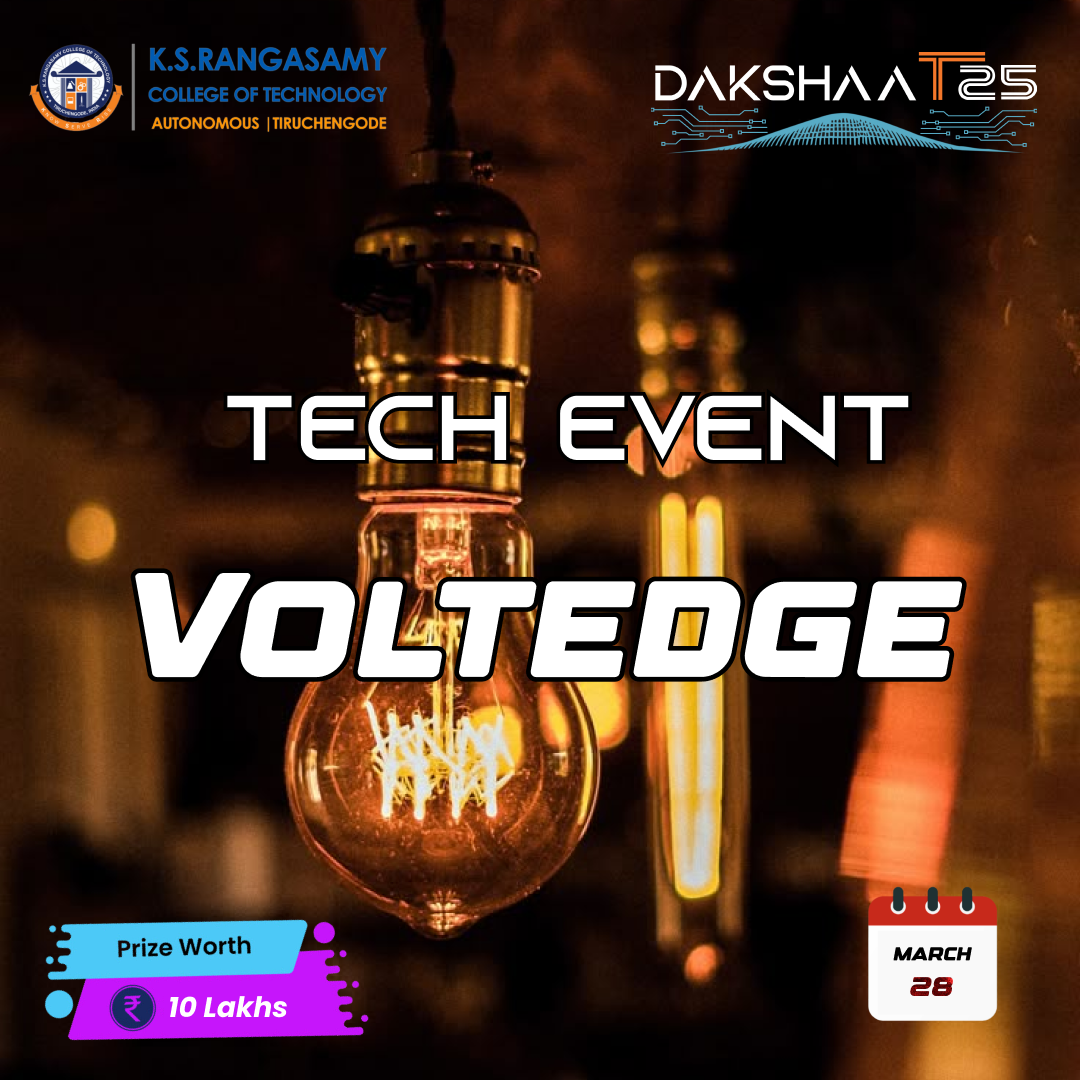
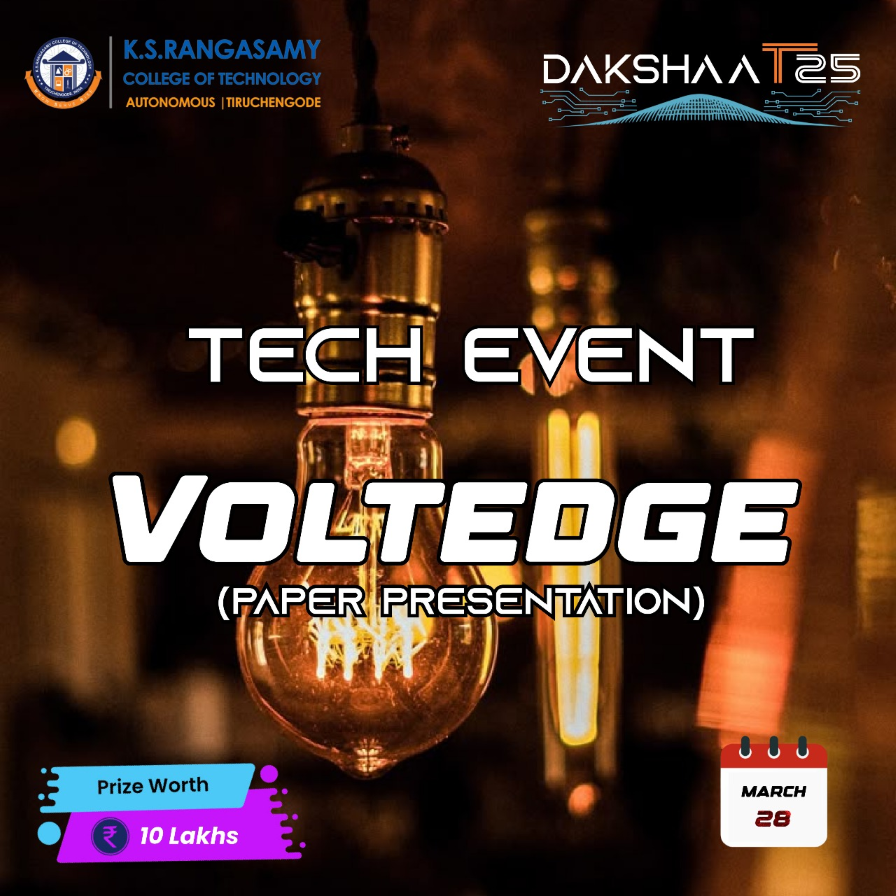
changes

diff --git a/Frontend/src/Pages/Events/EventDetails/EventDetails.jsx b/Frontend/src/Pages/Events/EventDetails/EventDetails.jsx
@@ -111,11 +111,10 @@ const EventDetails = () => {
       rules: [
         "The jury's decision is final.",
         "Any form of malpractice will lead to disqualification.",
-        "Team: 1 or 2 Members",
       ],
       schedule: [
         {
-          round: "Round 1",
+          round: "Round",
           date: "March 28, 2025",
           time: "10:00 AM to 12:00 PM",
           location: "CSE lab 1,IT Park",
@@ -940,114 +939,65 @@ const EventDetails = () => {
   
         registrationLink: "https://forms.gle/Co3kBQwR53cbBH1B9", // Registration link
       },
-      // "technical-event-20": {
-      //   title: "Poster Presentation",
-      //   description:
-      //     "The Poster Presentation Competition is an opportunity for students to explore and present emerging trends in their respective fields while addressing key global challenges outlined in the Sustainable Development Goals (SDGs).Participants will research and showcase innovative ideas through a visually engaging A1-sized poster, effectively communicating their findings to a diverse audience. This competition aims to foster creativity, critical thinking, and knowledge-sharing among students across multiple disciplines.",
-      //   image: Tech20,
-      //   rounds: [
-      //     {
-      //       title: "TOPICS:",
-      //     },
-      //     {
-      //       title: "Life Science and Technology Sector:",
-      //       description: [
-      //         "The Future of Genetic Engineering.",
-      //         "Urban Nourish: Street Food Remix.",
-      //         "Eco-Friendly Dyes: Reducing Environmental Impact in Textile Processing.",
-      //       ],
-      //     },
-      //     {
-      //       title: "Computer & IT Sector:",
-      //       description: [
-      //         "Quantum Computing: Revolutionizing Data Processing.",
-      //         "Blockchain Technology in Cybersecurity.",
-      //         "Edge Computing: A Game-Changer for IoT Applications.",
-      //       ],
-      //     },
-      //     {
-      //       title: "Electrical & Electronics Sector:",
-      //       description: [
-      //         "The Future of Wireless Communication.",
-      //         "Wireless Power Transmission: The Next Energy Revolution.",
-      //       ],
-      //     },
-      //     {
-      //       title: "Building and Mechanical Sector:",
-      //       description: [
-      //         "3D Printing in Manufacturing: A Sustainable Approach.",
-      //         "Green Buildings: Designing a Sustainable Future.",
-      //       ],
-      //     },
-      //     {
-      //       title: "Artificial Intelligence & IoT Sector:",
-      //       description: [
-      //         "AI in Climate Change Prediction: A Sustainable Approach.",
-      //         "Smart Cities: IoT Solutions for Urban Sustainability.",
-      //       ],
-      //     },
-      //     {
-      //       title: "Chemical & Pharmaceutical Sector:",
-      //       description: [
-      //         "Carbon Capture Technology: Fighting Global Warming.",
-      //         "Green Hydrogen: The Future of Renewable Energy.",
-      //         "Personalized Medicine: The Role of AI in Drug Development.",
-      //       ],
-      //     }
-      //   ],
-      //   rules: [
-      //     "Open to all UG, PG Students and Research Scholars. Teams can have a maximum of 3 members.",
-      //     "1) Poster Guidelines:",
-      //     "  i) Size: A1 (594 × 841 mm).",
-      //     "  ii) Must include title, name of the concept , and uniqueness.",
-      //     "  iii) Clear visuals, infographics, and creativity are encouraged.",
-      //     "2) Presentation:",
-      //     "1) Poster Guidelines:",
-      //     "  i) Time Limit:10 minutes per team.",
-      //     "  ii) Includes presentation for 6 minutes and  Q and A sections  for 4 minutes.",
-      //     "  iii) Must cover product innovation,  and SDG alignment",
-      //     "  iv) Judges may ask questions after the presentation.",
-      //     "3) Judging Criteria:",
-      //     "i) Content Relevance & Accuracy – 25%",
-      //     "ii) Creativity & Innovation – 20%",
-      //     "iii) Clarity & Organization – 20%",
-      //     "iv) Visual Appeal – 15%",
-      //     "v) Presentation & Communication Skills – 20%",
-      //   ],
-      //   schedule: [
-      //     {
-      //       round: "Venue",
-      //       date: "March 28, 2025",
-      //       time: "9:30AM -10:30AM",
-      //       location: "announcing soon",
-      //     },
-      //   ],
-      //   contact: {
-      //     facultyCoordinator: [
-      //       {
-      //         name: "Mr G Bharath, AP/FT",
-      //         phone: "9047976171",
-      //       },
-      //     ],
-      //     studentCoordinator: [
-      //       {
-      //         name: "Surya S",
-      //         phone: "9360492992",
-      //       },
-      //       {
-      //         name: "Yatheeswar R",
-      //         phone: "9441236991",
-      //       },
-      //       {
-      //           name: "Vijaya Yugeshwar R ",
-      //           phone: "9585768184",
-      //       },
+      "technical-event-20": {
+        title: "PAPER PRESENTATION",
+        description:
+          "The Internet of Things (IoT) – Connecting the Future Discover how IoT is transforming industries with smart connectivity, automation, and real-time data, shaping a smarter and more efficient world.",
+        image: Tech20,
+        rounds: [
+          
+          {
+            title: "TOPICS:",
+            description: [
+              "Internet of Things",
+            ],
+          },
+        ],
+        rules: [
+          "The presentation should be within 5-7minutes, followed by a Q&A session of 2-3minutes.",
+          "Use PowerPoint (PPT) or any specified tool for the slides.",
+          "The number of slides should be 10-15, keeping it clear and concise.",
+          "The presentation should have:",
+          "Title Slide (Paper title, authors, affiliation)",
+          "Introduction (Problem statement, objective)",
+          "Methodology (Approach, technologies used)",
+          "Results & Discussion (Findings, graphs, tables)",
+          "Conclusion & Future Work",
+          "References (if required)",
+        ],
+        schedule: [
+          {
+            round: "Venue",
+            date: "March 28, 2025",
+            time: "9:30AM -10:30AM",
+            location: "announcing soon",
+          },
+        ],
+        contact: {
+          facultyCoordinator: [
+            {
+              name: "RAJASEKARAN N. AP / EEE",
+              email:"rajasekaran.n@ksrct.ac.in",
+              phone: "8056975723",
+            },
+          ],
+          studentCoordinator: [
+            {
+              name: "TIVITH C",
+              email:"tivithpoongodi@gmail.com",
+              phone: "9345426277",
+            },
+            {
+              name: "MOTUPALLI SHEKAR ",
+              email:"shekarmotupalli@gmail.com ",
+              phone: "8838510411",
+            },
 
-      //     ],
-      //   },
+          ],
+        },
   
-      //   registrationLink: "https://forms.gle/Co3kBQwR53cbBH1B9", // Registration link
-      // },
+        registrationLink: "", // Registration link
+      },
     // Non-Technical Events
     "non-technical-event-1": {
       title: "trailblazers: The Clue Hunt",
@@ -1110,13 +1060,10 @@ const EventDetails = () => {
       image: NonTech2,
       rounds: [
         {
-          title: "Round 1",
-          description: "Offline Round.",
-        },
-        {
-          title: "Round 2",
+          title: "Round",
           description: "Offline Blind Maze Challenge will be conducted.",
         },
+        
       ],
       rules: [
         "Each team contain 2 students.",

diff --git a/Frontend/src/Pages/Events/Events.jsx b/Frontend/src/Pages/Events/Events.jsx
@@ -136,10 +136,10 @@ const Events = () => {
           image: Tech19,
           eventId: "technical-event-19",
         },
-        // {
-        //   image: Tech20,
-        //   eventId: "technical-event-20",
-        // },
+        {
+          image: Tech20,
+          eventId: "technical-event-20",
+        },
         
       ],
     },
